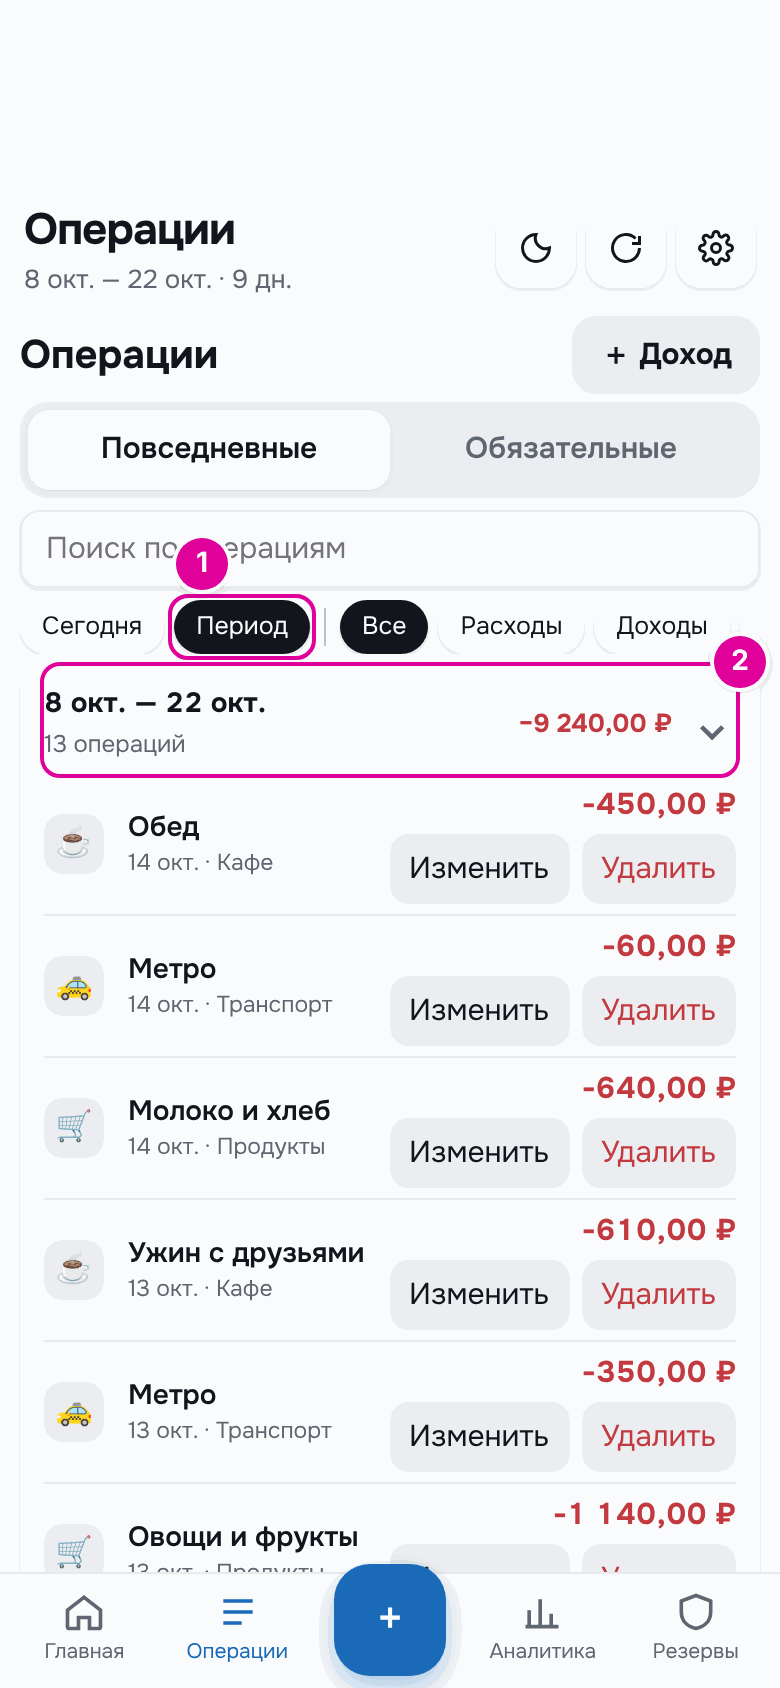
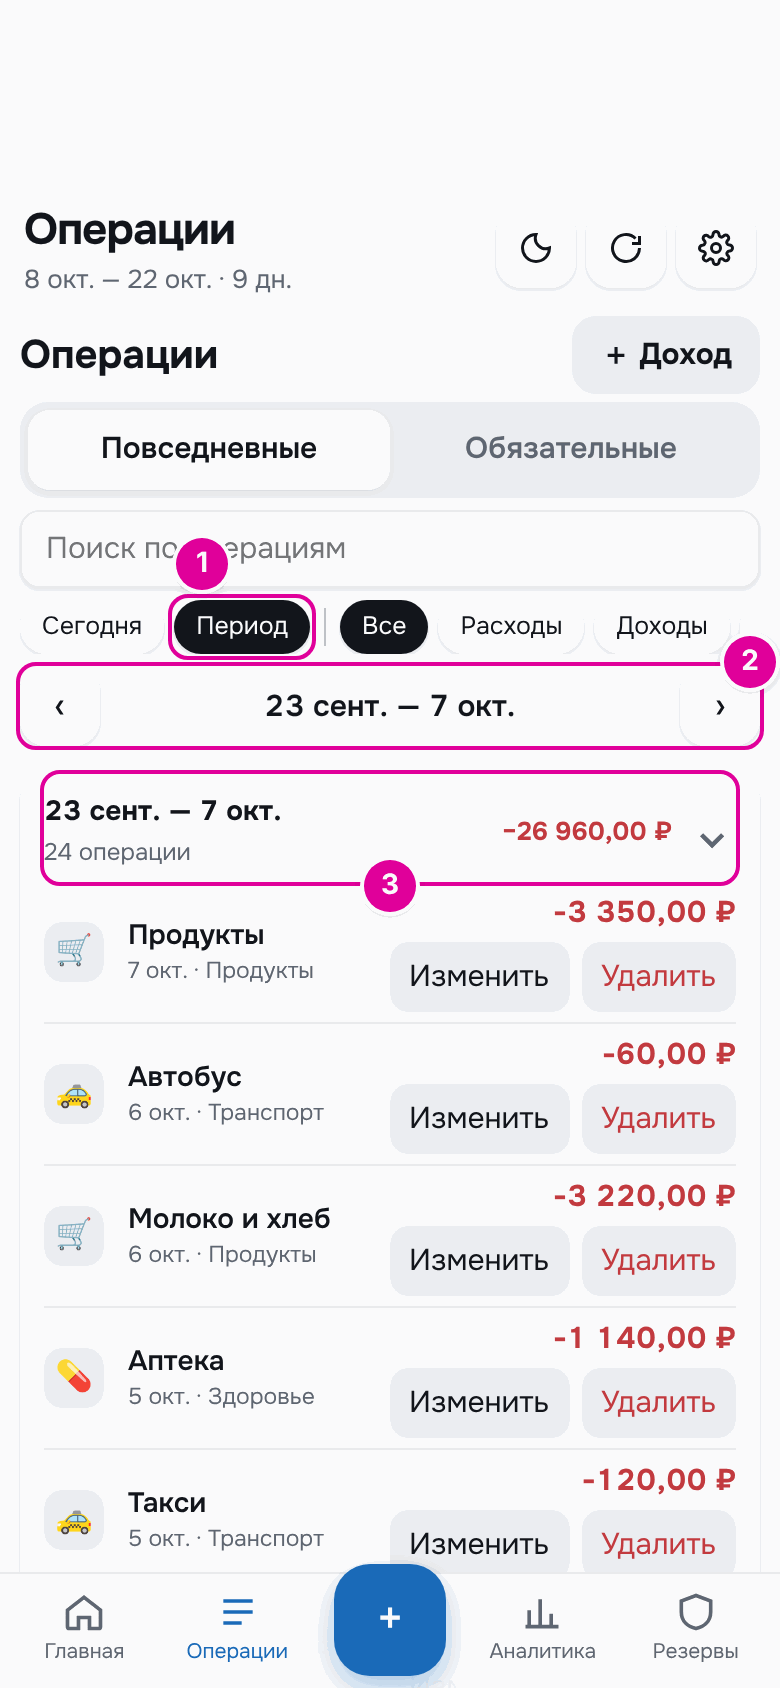
Операции: «Период» листает прошлые периоды стрелками ‹ ›
С нажатой «Период» под кнопками появляется строка «‹ 23 сент. — 7 окт. ›»:
‹ — предыдущий период карты, › — следующий, до текущего. Повторное
нажатие «Период» возвращает к текущему.

- GET /api/card-period?day= — период карты, в который входит день
  (planning.user_period, как в аналитике): границы зависят от выплат
  с переносом на рабочий день, их знает только сервер.
- GET /api/piggy-bank принимает since, как /api/transactions: переводы
  карта ↔ копилка прошлых периодов тоже попадают в список.
- Список догружается с начала выбранного периода, поэтому «Изменить»
  работает и для старых операций; перезагрузка сохраняет период целым.

Заодно: «24 операции» вместо «24 операций» — число в заголовке группы
теперь согласуется по правилам (21 операция, 24 операции, 12 операций).

Инструкция: глава 7, скриншот 07-operations-period.

Claude-Session: https://claude.ai/code/session_01F2xp3GGSPM2mQvnmC4kdYY

diff --git a/app/static/app.js b/app/static/app.js
@@ -65,17 +65,18 @@ function shiftISODate(iso, days) { return window.budgetDate.shift(iso, days); }
 
 let loadVersion = 0;
 
-// The operations list holds the latest operations and, once the card period
-// is known from an earlier load, every operation since its start: «Период».
+// The operations list holds the latest operations and every operation since
+// transactionsFrom(): «Период» shows a whole card period.  The first load
+// does not know the period yet.
 let transactionsSince = null;
 
 async function loadAll() {
   const version = ++loadVersion;
-  const since = state.dashboard?.period?.start || null;
+  const since = transactionsFrom();
   try {
     const [bootstrap, payroll, vacations, dashboard, transactions, plan, cashflowSettings, cashflow, piggy, irregular, accounts] = await Promise.all([
       api("/api/bootstrap"), api("/api/payroll-settings"), api("/api/vacations"), api("/api/dashboard"), api(since ? `/api/transactions?since=${since}` : "/api/transactions"), api("/api/plan"), api("/api/cashflow-settings"), api("/api/cashflow"),
-      api("/api/piggy-bank").catch(() => ({ movements: [] })),
+      api(since ? `/api/piggy-bank?since=${since}` : "/api/piggy-bank").catch(() => ({ movements: [] })),
       api("/api/irregular").catch(() => null),
       api("/api/accounts").catch(() => null)
     ]);
@@ -85,6 +86,8 @@ async function loadAll() {
     transactionsSince = since;
     window.accountsUi?.render(state);
     render();
+    // A period picked with ‹ while this load was running is loaded now.
+    if (transactionRange === "period") coverTransactionPeriod();
     window.applyCashflowSettings?.(cashflowSettings);
     window.applyCashflow?.(cashflow);
     await window.refreshBuffer?.(cashflow);
@@ -224,6 +227,33 @@ let transactionFilter = "all";
 // «Сегодня» and «Период» (the card period in the header) combine with the
 // type chips: «Сегодня» + «Расходы» is today's spending.
 let transactionRange = "all";
+// The period «Период» shows after ‹: null is the current one.
+let transactionPeriod = null;
+
+// The earliest day the operations list must hold: the start of the period on
+// screen, the current one at least.
+function transactionsFrom() {
+  return [state.dashboard?.period?.start, transactionPeriod?.start].filter(Boolean).sort()[0] || null;
+}
+
+// Loads operations and card ↔ piggy transfers back to transactionsFrom() when
+// the list does not reach that far yet.
+async function coverTransactionPeriod() {
+  const since = transactionsFrom();
+  if (!since || (transactionsSince && transactionsSince <= since)) return;
+  const version = loadVersion;
+  try {
+    const [transactions, piggy] = await Promise.all([
+      api(`/api/transactions?since=${since}`), api(`/api/piggy-bank?since=${since}`),
+    ]);
+    // A newer load replaces the list and covers the period itself.
+    if (version !== loadVersion) return;
+    state.transactions = transactions;
+    state.piggy = piggy;
+    transactionsSince = since;
+    renderTransactions();
+  } catch (e) { toast(e.message); }
+}
 const TRANSACTION_FILTERS = {
   all: () => true,
   expense: t => !t.piggy && t.type === "expense",
@@ -248,7 +278,12 @@ function renderTransactions() {
   const all = [...state.transactions, ...cardPiggyTransfers()].filter(inTransactionView);
   const daily = transactionView !== "bills";
   const today = daily && transactionRange === "today" ? todayISO() : null;
-  const period = daily && transactionRange === "period" && !isIrregular() ? state.dashboard?.period : null;
+  const period = daily && transactionRange === "period" && !isIrregular() ? transactionPeriod || state.dashboard?.period : null;
+  $("txPeriodNav")?.classList.toggle("hidden", !period);
+  if (period) {
+    $("txPeriodLabel").textContent = `${fmtDate(period.start)} — ${fmtDate(period.end)}`;
+    $("txPeriodNext").disabled = !transactionPeriod;
+  }
   const inRange = t => today ? t.tx_date === today : !period || (t.tx_date >= period.start && t.tx_date <= period.end);
   const items = all.filter(t => inRange(t) && transactionMatches(t, query))
     .sort((a, b) => b.tx_date.localeCompare(a.tx_date) || String(b.created_at || "").localeCompare(String(a.created_at || "")));
@@ -276,9 +311,8 @@ function renderTransactions() {
       const expenseTotal = transactions
         .filter(t => t.type === "expense")
         .reduce((sum, t) => sum + Number(t.amount || 0), 0);
-      const countLabel = transactions.length === 1 ? "1 операция"
-        : transactions.length < 5 ? `${transactions.length} операции`
-        : `${transactions.length} операций`;
+      const n = transactions.length, tens = n % 100, ones = n % 10;
+      const countLabel = `${n} ${tens >= 11 && tens <= 14 ? "операций" : ones === 1 ? "операция" : ones >= 2 && ones <= 4 ? "операции" : "операций"}`;
       return `<section class="transaction-week ${collapsed ? "collapsed" : ""}">
         <button class="transaction-week-toggle" type="button" onclick="toggleTransactionWeek('${weekStart}')" aria-expanded="${!collapsed}">
           <span><strong>${today ? `Сегодня, ${fmtDate(today)}` : period ? `${fmtDate(period.start)} — ${fmtDate(period.end)}` : transactionWeekTitle(weekStart)}</strong><small>${countLabel}</small></span>
@@ -697,17 +731,43 @@ document.querySelectorAll("[data-txf]").forEach(btn => btn.addEventListener("cli
   renderTransactions();
 }));
 // «Сегодня» and «Период» exclude each other; a second tap turns the chip off.
+// «Период» always opens on the current period.
 function toggleTransactionRange(range) {
   transactionRange = transactionRange === range ? "all" : range;
+  transactionPeriod = null;
   $("txToday")?.setAttribute("aria-pressed", String(transactionRange === "today"));
   $("txPeriod")?.setAttribute("aria-pressed", String(transactionRange === "period"));
   renderTransactions();
-  // The first load did not know the period yet and may hold only its latest operations.
-  const start = state.dashboard?.period?.start;
-  if (transactionRange === "period" && start && !(transactionsSince && transactionsSince <= start)) loadAll();
+  if (transactionRange === "period") coverTransactionPeriod();
 }
 $("txToday")?.addEventListener("click", () => toggleTransactionRange("today"));
 $("txPeriod")?.addEventListener("click", () => toggleTransactionRange("period"));
+
+// ‹ › step through card periods: their bounds come from the paydays, which
+// only the server knows; › stops at the current period.
+let transactionPeriodStep = null;
+function stepTransactionPeriod(direction) {
+  const current = state.dashboard?.period;
+  const shown = transactionPeriod || current;
+  if (!current || transactionPeriodStep) return transactionPeriodStep;
+  const day = direction < 0 ? shiftISODate(shown.start, -1) : shiftISODate(shown.end, 1);
+  if (day >= current.start) {
+    transactionPeriod = null;
+    renderTransactions();
+    return Promise.resolve();
+  }
+  transactionPeriodStep = api(`/api/card-period?day=${day}`)
+    .then(period => {
+      transactionPeriod = period;
+      renderTransactions();
+      return coverTransactionPeriod();
+    })
+    .catch(e => toast(e.message))
+    .finally(() => { transactionPeriodStep = null; });
+  return transactionPeriodStep;
+}
+$("txPeriodPrev")?.addEventListener("click", () => stepTransactionPeriod(-1));
+$("txPeriodNext")?.addEventListener("click", () => stepTransactionPeriod(1));
 document.querySelectorAll("[data-txview]").forEach(btn => btn.addEventListener("click", () => {
   transactionView = btn.dataset.txview;
   document.querySelectorAll("[data-txview]").forEach(b => b.setAttribute("aria-selected", String(b === btn)));

diff --git a/app/static/index.html b/app/static/index.html
@@ -98,6 +98,11 @@
             <button class="chip" type="button" data-txf="income" aria-pressed="false">Доходы</button>
             <button class="chip" type="button" data-txf="piggy" aria-pressed="false">Копилка</button>
           </div>
+          <div class="analytics-nav tx-period-nav hidden" id="txPeriodNav">
+            <button class="icon-btn" id="txPeriodPrev" type="button" aria-label="Предыдущий период">‹</button>
+            <strong id="txPeriodLabel">—</strong>
+            <button class="icon-btn" id="txPeriodNext" type="button" aria-label="Следующий период">›</button>
+          </div>
         </div>
         <div id="transactionsList" class="list cards-list"></div>
       </section>
@@ -698,7 +703,7 @@
   <div id="toast" class="toast" role="status" aria-live="polite"></div>
   <script src="/static/budget-date.js?v=20261020-daily-cap"></script>
   <script src="/static/money-input.js?v=20261020-daily-cap"></script>
-  <script src="/static/app.js?v=20261026-tx-period"></script>
+  <script src="/static/app.js?v=20261026-tx-period-nav"></script>
   <script src="/static/cashflow-ui.js?v=20261026-buffer-move"></script>
   <script src="/static/buffer-ui.js?v=20261026-buffer-move"></script>
   <script src="/static/design-ui.js?v=20261011-canvas-design"></script>

diff --git a/app/cashflow_app.py b/app/cashflow_app.py
@@ -109,12 +109,22 @@ def piggy_bank_balance(user_id: int, through: date | None = None) -> float:
     return round(float(row["balance"]) if row else 0.0, 2)
 
 
-def piggy_bank_snapshot(user_id: int, limit: int = 80) -> dict:
+def piggy_bank_snapshot(user_id: int, limit: int = 80, since: date | None = None) -> dict:
+    """The balance and the latest ``limit`` movements.  ``since`` adds every
+    movement from that day on, like /api/transactions: «Период» lists the
+    card ↔ piggy transfers of earlier periods too."""
+    limit = min(max(limit, 1), 300)
+    if since is None:
+        where, params = "ORDER BY movement_date DESC,id DESC LIMIT ?", (limit,)
+    else:
+        where = ("AND (movement_date>=? OR id IN (SELECT id FROM piggy_bank_movements WHERE user_id=? "
+                 "ORDER BY movement_date DESC,id DESC LIMIT ?)) ORDER BY movement_date DESC,id DESC")
+        params = (since.isoformat(), user_id, limit)
     movements = legacy.rows(
         "SELECT id,direction,amount,movement_date,note,source,purpose,bill_payment_id,"
         "income_transaction_id,expense_transaction_id,created_at FROM piggy_bank_movements "
-        "WHERE user_id=? ORDER BY movement_date DESC,id DESC LIMIT ?",
-        (user_id, min(max(limit, 1), 300)),
+        f"WHERE user_id=? {where}",
+        (user_id, *params),
     )
     return {"balance": piggy_bank_balance(user_id), "movements": movements}
 
@@ -309,9 +319,9 @@ def delete_cashflow_income_override(
 
 
 @app.get("/api/piggy-bank")
-def get_piggy_bank(user: TelegramUser = Depends(current_user)) -> dict:
+def get_piggy_bank(since: date | None = None, user: TelegramUser = Depends(current_user)) -> dict:
     uid = legacy.user_ready(user)
-    return piggy_bank_snapshot(uid)
+    return piggy_bank_snapshot(uid, since=since)
 
 
 def _insert_piggy(user_id: int, direction: str, amount: float, day: date, note: str,

diff --git a/tests/test_audit_regressions.py b/tests/test_audit_regressions.py
@@ -1003,3 +1003,26 @@ def test_transactions_since_adds_every_operation_of_the_period(client):
     assert dates("/api/transactions?limit=5&since=2026-09-13") == [
         "2026-09-14", "2026-09-12", "2026-09-10", "2026-09-08", "2026-09-02"]
     assert client.get("/api/transactions?since=вчера").status_code == 422
+
+
+def test_card_period_steps_back_through_paydays(client):
+    # Salary on 7 September (Monday), the advance on 22 August falls on a
+    # Saturday and comes on Friday the 21st: periods start the day after.
+    current = client.get("/api/card-period").json()
+    assert current == {"start": "2026-09-08", "end": "2026-09-22"}
+    previous = client.get("/api/card-period?day=2026-09-07").json()
+    assert previous == {"start": "2026-08-22", "end": "2026-09-07"}
+    assert client.get("/api/card-period?day=2026-08-21").json()["end"] == "2026-08-21"
+    assert client.get("/api/card-period?day=завтра").status_code == 422
+
+
+def test_piggy_bank_since_adds_every_movement_of_the_period(client):
+    from app.cashflow_app import piggy_bank_snapshot
+    for day in ("2026-09-02", "2026-09-08", "2026-09-10"):
+        response = client.post("/api/piggy-bank/deposit", json={"amount": 10, "movement_date": day})
+        assert response.status_code == 200, response.text
+    dates = lambda **kw: [m["movement_date"] for m in as_user(1, piggy_bank_snapshot, 1, **kw)["movements"]]
+    assert dates(limit=1) == ["2026-09-10"]
+    assert dates(limit=1, since=date(2026, 9, 8)) == ["2026-09-10", "2026-09-08"]
+    listed = client.get("/api/piggy-bank?since=2026-09-08").json()["movements"]
+    assert [m["movement_date"] for m in listed] == ["2026-09-10", "2026-09-08", "2026-09-02"]

diff --git a/app/main.py b/app/main.py
@@ -305,6 +305,18 @@ def transactions(
     )
 
 
+@app.get("/api/card-period")
+def card_period(day: date | None = None, user: TelegramUser = Depends(current_user)) -> dict:
+    """The card period containing ``day`` (today by default): «Период» in the
+    operations list steps through them."""
+    uid = user_ready(user)
+    try:
+        period = planning.user_period(uid, day or clock.today())
+    except ValueError as exc:
+        raise HTTPException(400, "Период карты недоступен: задайте зарплату и аванс в настройках") from exc
+    return {"start": period.start.isoformat(), "end": period.end.isoformat()}
+
+
 @app.post("/api/transactions")
 def create_transaction(payload: TransactionIn, user: TelegramUser = Depends(current_user)) -> dict:
     uid = user_ready(user)

diff --git a/scripts/make_guide_screenshots.py b/scripts/make_guide_screenshots.py
@@ -1136,8 +1136,11 @@ def ch07(app: App, sh: Shooter, texts: dict) -> None:
     sh.page.wait_for_timeout(200)
     sh.page.click("#txPeriod")
     sh.settle()
+    sh.page.click("#txPeriodPrev")
+    sh.settle()
     sh.shot("07-operations-period.png", [
-        M(1, "#txPeriod", "al", pad=3), M(2, "#transactionsList .transaction-week-toggle", pad=2),
+        M(1, "#txPeriod", "al", pad=3), M(2, "#txPeriodNav", pad=2),
+        M(3, "#transactionsList .transaction-week-toggle", pad=2),
     ], facts={"Период": "#transactionsList .transaction-week-toggle"})
     sh.page.click("#txPeriod")
     sh.page.wait_for_timeout(200)

diff --git a/docs/guide/07-expenses.md b/docs/guide/07-expenses.md
@@ -60,9 +60,11 @@
 
 Кнопки «Сегодня» и «Период» в начале того же ряда оставляют операции за сегодня или за текущий период — тот, что написан под заголовком экрана. Вместо недель тогда одна группа: сколько в ней операций и сколько потрачено. Их можно сочетать с кнопками вида и поиском: «Период» и «Расходы» — все траты периода. Повторное нажатие выключает кнопку. В режиме «Подработки» кнопки «Период» нет: там нет периодов от выплаты до выплаты.
 
-![Операции за период: нажата кнопка «Период», в списке одна группа «8 окт. — 22 окт.» со всеми операциями периода](images/07-operations-period.png)
+Когда нажата кнопка «Период», под ней появляются стрелки: ‹ — предыдущий период, › — следующий, до текущего. Каждый период идёт от дня после выплаты до следующей выплаты, как в заголовке экрана. Если снова нажать «Период», список вернётся к текущему периоду.
 
-*1 — кнопка «Период». 2 — группа за период: сколько операций и сколько потрачено.*
+![Операции за прошлый период: нажата кнопка «Период», стрелками выбран период «23 сент. — 7 окт.», в списке одна группа со всеми его операциями](images/07-operations-period.png)
+
+*1 — кнопка «Период». 2 — стрелки: предыдущий и следующий период. 3 — группа за период: сколько операций и сколько потрачено.*
 
 ![Поиск по слову «кафе»: в списке остались только траты категории «Кафе»](images/07-operations-search.png)
 
